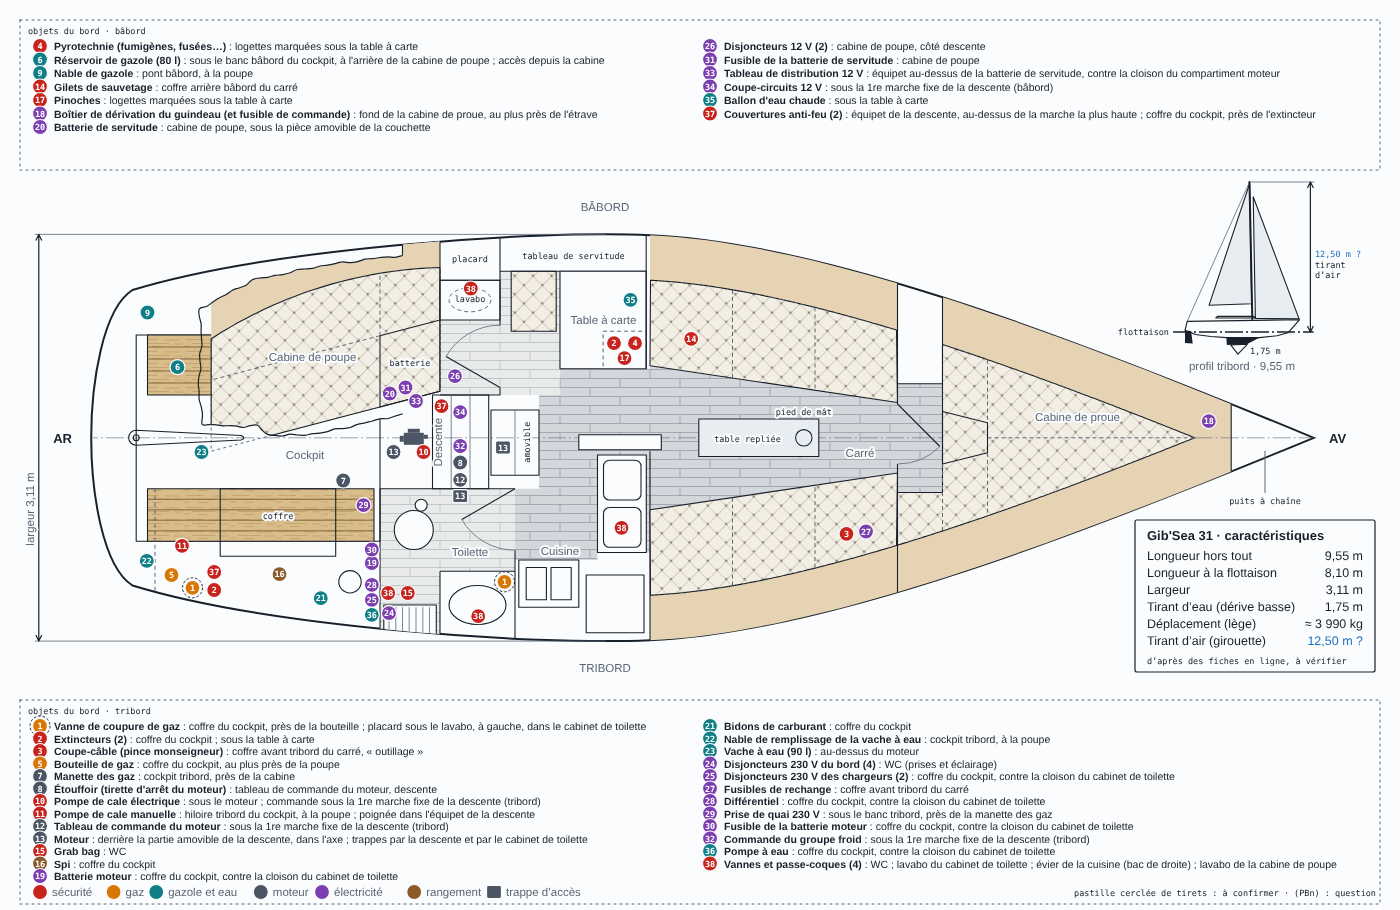
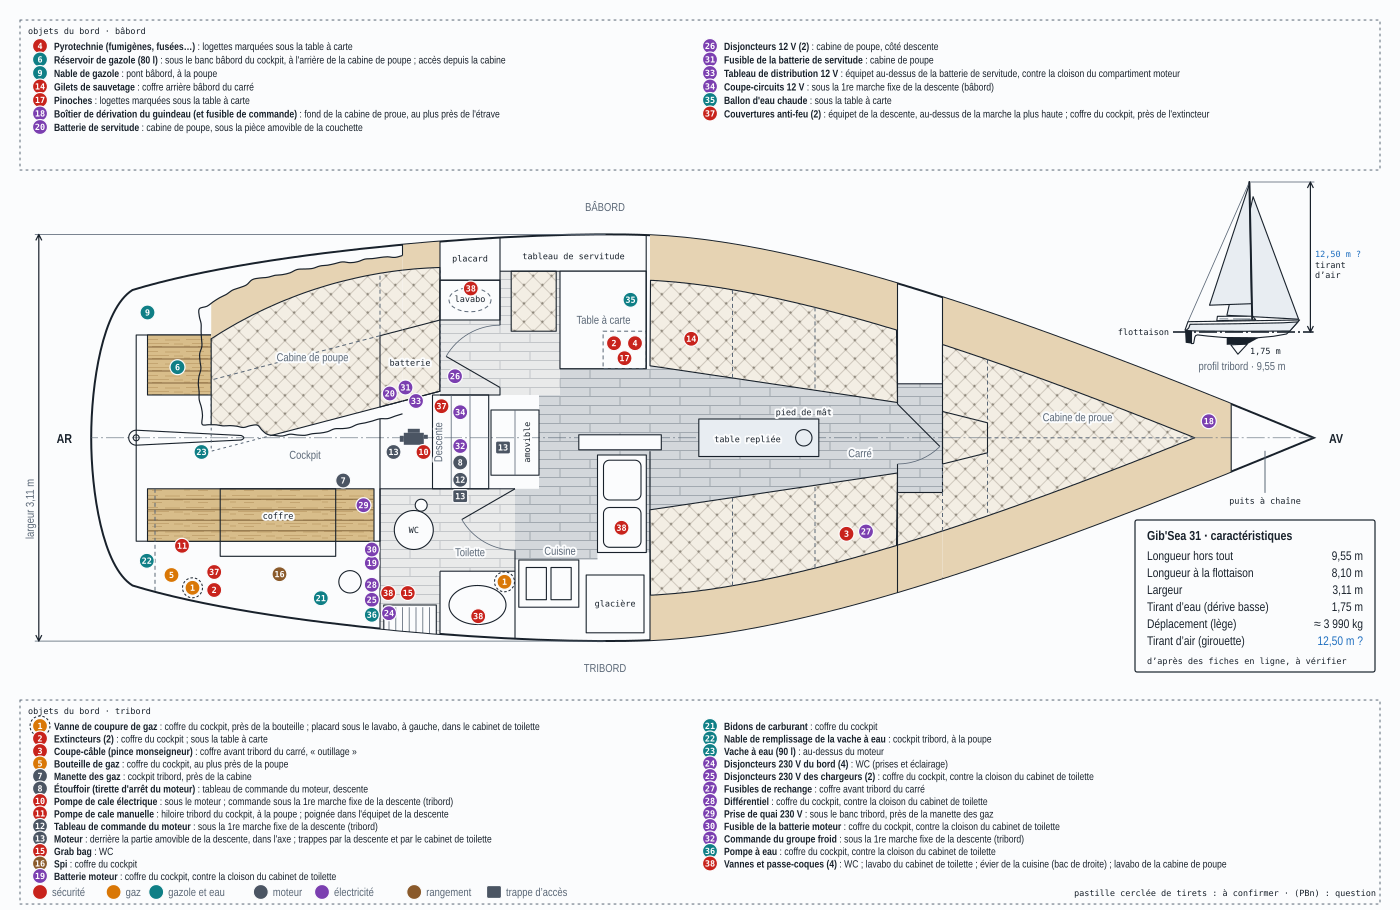
Plan de bord : légendes WC et glacière, axe dans le trapèze de la cabine de proue, profil repris (skeg, rouf, génois)

diff --git a/brouillons/plan-de-bord/plan_bord.py b/brouillons/plan-de-bord/plan_bord.py
@@ -290,7 +290,7 @@ A(path("amg", (400, 598), (400, 390), (580, 390)))
 A(path("amg", (580, 472), (580, 598)))
 A(path("amg", (480, 500), (580, 500)))
 A(path("amg", (480, 500), (480, 598)))
-A(circle("amg-b", 445, 445, 26))               # WC
+A(circle("amg-b", 445, 445, 26))               # WC (légende avec les noms de zones)
 A(circle("amg-b", 455, 412, 8))                # pompe
 A(ellipse("amg", 530, 545, 38, 26))          # lavabo
 A(rect("amg-b", 405, 545, 475, 590))           # caillebotis
@@ -332,6 +332,7 @@ dpt = dossier(1090, 1700)
 A(path("mat", (1150, dp[0][1]), *dp, *[(x, M(y)) for x, y in reversed(dpt[:-1])],
        (1090, M(dpt[0][1])), (1090, 395), (1150, 395), close=True))
 A(path("amg", (1150, 287), (1210, 302), (1210, 342), (1150, 357), close=True))  # trapèze, sur le bord de la couchette
+A(path("axe", (1150, CY), (XT, CY)))            # l'axe traverse le trapèze, par-dessus le matelas
 
 
 def y_dossier(x):
@@ -363,6 +364,8 @@ LBL = [
 el.append('<!-- Noms de zones (provisoires) -->')
 for s, x, y, *r in LBL:
     el.append(text("ts mid halo", x, y, s, *r))
+el.append(text("pin mid", 445, 449, "WC"))
+el.append(text("pin mid", 713.5, 547, "glacière"))
 el.append(text("pin mid halo", 520, 87, "placard"))
 el.append(text("pin mid halo", 520, 141, "lavabo"))
 el.append(text("pin mid halo", (la[0]+lb[0]+lc[0]+ld[0])/4, (la[1]+lb[1]+lc[1]+ld[1])/4 + 3, "batterie"))
@@ -451,26 +454,32 @@ if B.get("statut") == "estime":
 # (profil-constructeur.jpeg, points relevés en pixels de l'image) : mis à l'échelle sur la longueur hors tout
 # (horizontalement) et sur le tirant d'air (verticalement) ; sans tirant d'air, haut du mât en tirets (PB12).
 L, T, TA = B["longueur_hors_tout_m"], B["tirant_eau_m"], B.get("tirant_air_m")
-IX0, IX1, IWL, ITOP = 81.7, 428.3, 533.3, 38     # image : arrière, étrave, flottaison, tête de mât (girouette)
+IX0, IX1, IWL, ITOP = 80, 430, 533.3, 38     # image : arrière, étrave, flottaison, tête de mât (girouette)
 KP, PX, PW = 12, 1185, 332                         # px par mètre, x de l'arrière, y de la flottaison
 SX, SZ = L / (IX1 - IX0), (TA or 12.5) / (IWL - ITOP)
 def pi(X, Y):                                      # point de l'image → point du folio
     return f"{PX + KP * SX * (X - IX0):.1f} {PW - KP * SZ * (IWL - Y):.1f}"
 def ipath(cls, *pts, close=True):
     return f'<path class="{cls}" d="M' + " L".join(pi(*q) for q in pts) + (' Z"' if close else '"') + "/>"
-COQUE = [(88.3, 498.3), (428.3, 492.7), (393.3, 536), (360, 546), (306.7, 551.7), (206.7, 551.7),
-         (160, 548.3), (113.3, 541.7), (96.7, 533.3), (81.7, 528.3)]
-ROOF = [(175, 487), (180, 481.7), (290, 481.7), (295, 487)]
-LEST = [(206.7, 551.7), (208.3, 576), (270, 573.3), (305, 553.3)]          # aileron de quille
-DERIVE = [(220, 576), (241.7, 606.7), (270, 574)]                         # dérive basse
-SAFRAN = [(81.7, 528.3), (100, 530), (105, 571.7), (81.7, 570)]
+COQUE = [(89.3, 499.3), (430, 493.7), (400, 530), (390, 540), (350, 547.5), (310, 551.3), (300, 552.5),
+         (198.6, 551.4), (150, 547), (118.6, 543),                         # œuvres vives, jusqu'au skeg
+         (113, 545), (110, 550), (107, 568.6), (105.7, 571.4), (100, 571.5),  # skeg devant le safran
+         (100, 530), (80, 527.1)]                                          # tableau arrière incliné
+BORDE = [(95.7, 508), (250, 506), (380, 503), (424.8, 500), (400, 530), (250, 531), (120, 530),
+         (82.9, 528.6), (91.4, 520)]                                       # bordé foncé, entre le liston et la flottaison
+ROOF = [(177, 496), (179, 481.5), (287, 481), (296, 493)]                 # rouf, son avant en pente
+HUBLOTS = [(185, 212), (227, 280)]                                        # vitrages du rouf
+LEST = [(207.5, 551.3), (207.5, 575.5), (270, 573.7), (305, 552.5)]        # aileron de quille
+DERIVE = [(220, 575.5), (241.7, 606.7), (270, 573.7)]                     # dérive basse
+SAFRAN = [(80, 527.1), (100, 530), (100, 571.5), (82, 569)]
 GV = [(276.7, 44.7), (283.3, 440), (154.7, 444.7)]                        # grand-voile : tête, point d'amure, point d'écoute
-GENOIS = [(288, 86.7), (426.7, 490), (294.7, 488.7)]
+GENOIS = [(288, 86.7), (427, 491), (208, 478)]                            # génois : point d'écoute en arrière du mât
 xd = PX + KP * SX * (241.7 - IX0)
 prof = ['<g class="profil">',
-        ipath("amg-f", *GV), ipath("amg-f", *GENOIS),
-        f'<path class="amg-l" d="M{pi(276.7, 38)} L{pi(88.3, 498.3)}"/>',      # pataras
-        ipath("amg-b", *COQUE), ipath("amg-f", *ROOF),
+        ipath("amg-f", *GENOIS), ipath("amg-f", *GV),                       # le génois passe derrière la grand-voile
+        f'<path class="amg-l" d="M{pi(276.7, 38)} L{pi(89.3, 499.3)}"/>',      # pataras
+        ipath("amg-b", *COQUE), ipath("amg-f", *BORDE), ipath("amg-b", *ROOF),
+        *[f'<path class="amg-l" d="M{pi(a, 490)} L{pi(b, 490)}"/>' for a, b in HUBLOTS],
         ipath("dn", *LEST), ipath("amg-b", *DERIVE), ipath("dn", *SAFRAN),
         f'<path class="n w2" d="M{pi(285.3, 490)} L{pi(276.7, 38)}"/>',       # mât
         f'<path class="flot" d="M{PX - 12} {PW} H{PX + KP * L + 14}"/>',       # flottaison, trait mixte fort

diff --git a/brouillons/plan-de-bord/README.md b/brouillons/plan-de-bord/README.md
@@ -14,6 +14,8 @@ Phases :
 
 6. Mise à jour du 22/10, d'après les remarques de l'utilisateur : axe du navire en trait mixte fin et flottaison du profil en trait mixte fort (ISO 128), pour ne plus les confondre avec les parties cachées en tirets ; coffres des banquettes du carré en trois parties (séparations aux tiers, estimées), sans repère sur les coffres centraux (14, 3 et 27 recentrés dans les coffres d'extrémité) ; puits à chaîne non séparé ; coffres de la cabine de proue (base du trapèze prolongée jusqu'au dossier tribord, sommet jusqu'aux deux dossiers, coffre triangulaire avant séparé en deux le long de l'axe, où l'arête cachée interrompt l'axe) ; coffres de la couchette de la cabine de poupe (côtés de la pièce amovible prolongés vers la poupe et vers bâbord) ; équipet sous la table à carte (moitié avant de la table, contre la banquette, ouvert côté puits de dérive) ; repères 23 avancé, 1 (placard du cabinet de toilette) dans l'angle du meuble du lavabo côté cuisine, 37 (couvertures anti-feu) déplacé de la table à carte vers l'équipet de la descente, au-dessus de la marche la plus haute ; 2, 4 et 17 (extincteur, pyrotechnie, pinoches) dans l'équipet de la table à carte.
 
+7. Mise à jour du 22/10 (soir), d'après les remarques de l'utilisateur : légendes « WC » dans la cuvette et « glacière » dans la glacière ; l'axe du navire traverse le trapèze de la cabine de proue (il passait sous le matelas). Profil redessiné d'après `profil-constructeur.jpeg` relevé à la loupe : skeg devant le safran (safran rectangulaire suspendu au skeg), tableau arrière incliné, étrave et œuvres vives reprises, bordé en grisé entre le liston et la flottaison, rouf à l'avant en pente avec ses deux vitrages, génois à recouvrement dont le point d'écoute passe en arrière du mât (sa chute est cachée par la grand-voile, visible sous la bôme comme sur le plan de voilure).
+
 Questions de la phase 2 : PB1 à PB11, toutes répondues le 19/10. PB12 (20/10) : tirant d'air ? Aucune fiche en ligne ne le donne ; 12,50 m girouette comprise d'après l'utilisateur, à faire vérifier par Julie. Restent à faire : vérifier les emplacements « à confirmer avec Julie » (vanne de gaz), puis reporter les objets dans le relevé.
 
 `python brouillons/plan-de-bord/plan_bord.py` régénère le SVG et sa copie `folio-6-plan-de-bord-inkscape.svg` : mêmes dessins, couleurs du thème clair écrites en dur (Inkscape et la plupart des visionneuses ne lisent pas les variables CSS), fond dans un calque verrouillé, pastilles et trappes du plan dans le calque « Pastilles à placer », identifiées `pN-i` / `tN-i` (objet N, i-ème emplacement, en partant de 0). Pour placer les repères : déplacer les pastilles dans cette copie, sans toucher au reste, puis reporter leurs positions dans `objets.yaml` (X = 80 + 0,75 · x ; Y = 196,25 + 0,75 · y) ; ne pas retoucher les SVG, réécrits à chaque génération. Le script il reprend le bloc `<style>` du folio 0 et y ajoute les classes `amg`, `amg-f`, `amg-b`, `amg-d`, `amg-l`, `axe`, `flot`, `arr`, `halo`, `sol-b`, `sol-h`, `mat`, `teck`, `teck-j`, `vaig`, `vaig-f`, `obj`, `conf`, `tr`, `leg`, `ico-mot` et les classes de catégorie, les variables de couleur des textures et leurs motifs (`<defs>`), à reporter dans tous les folios et dans `page.py` à l'intégration.
